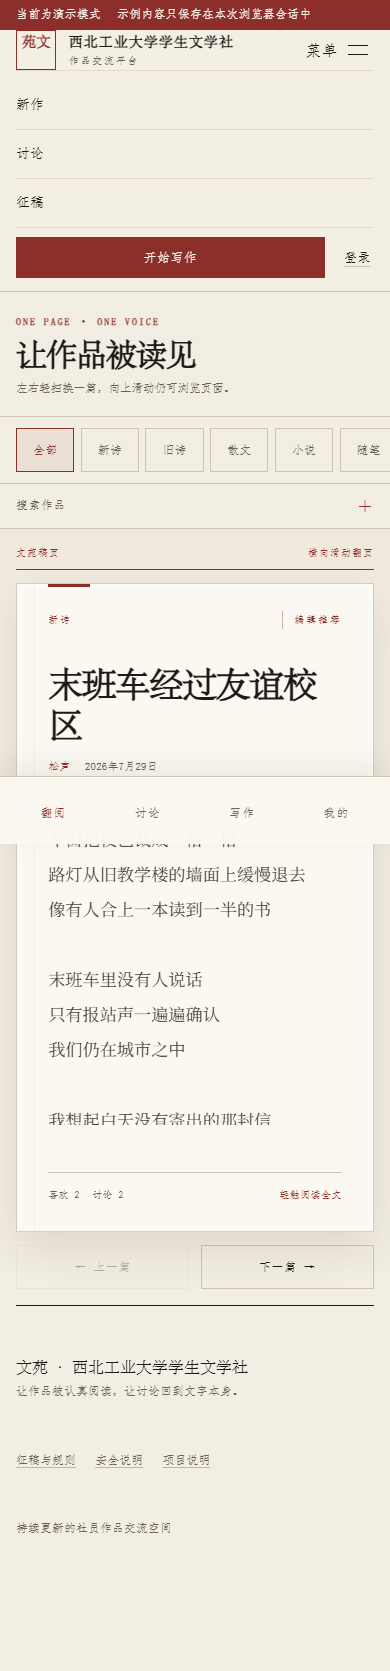
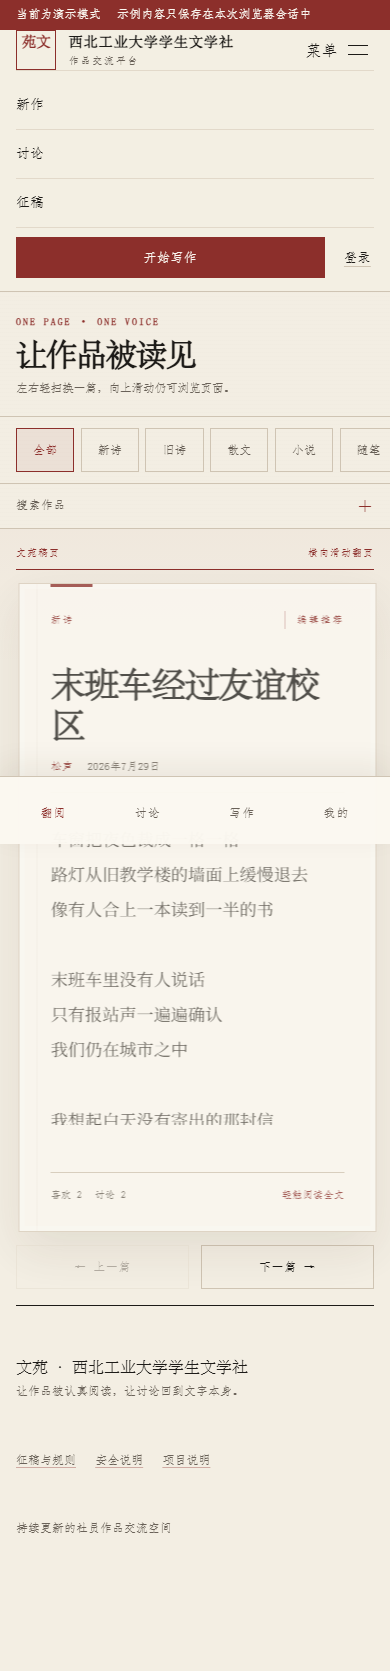
fix: resolve final interaction re-review

diff --git a/js/app.js b/js/app.js
@@ -39,6 +39,8 @@ const demoRibbon = document.querySelector("#demoRibbon");
 const toast = document.querySelector("#toast");
 
 const DRAFT_KEY = "wenyuan-writing-draft";
+const PROFILE_RETURN_SENTINEL = "__current-profile__";
+const SWIPE_CLICK_SUPPRESSION_MS = 2000;
 const mobileHomeMedia = window.matchMedia("(max-width: 760px)");
 
 const state = {
@@ -58,6 +60,7 @@ const state = {
     signature: "",
     touch: null,
     suppressClick: false,
+    suppressClickTimer: null,
   },
   confirmResolver: null,
   toastTimer: null,
@@ -164,7 +167,7 @@ function updateHeader() {
     accountMenu.hidden = true;
     mobileProfileLink.href = "#/";
     mobileProfileLink.dataset.action = "open-auth";
-    mobileProfileLink.dataset.returnHash = "#/";
+    mobileProfileLink.dataset.returnHash = PROFILE_RETURN_SENTINEL;
   }
 
   const route = parseRoute(window.location.hash);
@@ -616,6 +619,12 @@ function renderDesktopHome() {
   replaceContent(app, shell);
 }
 
+function resolveAuthReturnHash(returnTarget) {
+  if (returnTarget !== PROFILE_RETURN_SENTINEL) return returnTarget;
+  if (!state.session?.profile?.id) return null;
+  return `#/authors/${encodeURIComponent(state.session.profile.id)}`;
+}
+
 function getPreparedExport(trigger) {
   const prepared = state.currentExport;
   if (!prepared || prepared.workId !== trigger.dataset.workId) {
@@ -778,12 +787,29 @@ function moveMobileFeed(direction) {
   return true;
 }
 
+function clearMobileFeedClickSuppression() {
+  state.mobileFeed.suppressClick = false;
+  if (state.mobileFeed.suppressClickTimer != null) {
+    window.clearTimeout(state.mobileFeed.suppressClickTimer);
+    state.mobileFeed.suppressClickTimer = null;
+  }
+}
+
+function armMobileFeedClickSuppression() {
+  clearMobileFeedClickSuppression();
+  state.mobileFeed.suppressClick = true;
+  state.mobileFeed.suppressClickTimer = window.setTimeout(
+    clearMobileFeedClickSuppression,
+    SWIPE_CLICK_SUPPRESSION_MS,
+  );
+}
+
 function attachMobileFeedInteractions(card, work) {
   card.addEventListener("click", (event) => {
     if (state.mobileFeed.suppressClick) {
       event.preventDefault();
       event.stopPropagation();
-      state.mobileFeed.suppressClick = false;
+      clearMobileFeedClickSuppression();
       return;
     }
     if (
@@ -809,6 +835,7 @@ function attachMobileFeedInteractions(card, work) {
   card.addEventListener(
     "touchstart",
     (event) => {
+      clearMobileFeedClickSuppression();
       const touch = event.touches[0];
       if (!touch) return;
       state.mobileFeed.touch = {
@@ -843,7 +870,7 @@ function attachMobileFeedInteractions(card, work) {
       const deltaY = (touch?.clientY ?? gesture.endY) - gesture.startY;
       const direction = resolveHorizontalSwipe(deltaX, deltaY);
       if (!direction) return;
-      state.mobileFeed.suppressClick = true;
+      armMobileFeedClickSuppression();
       moveMobileFeed(direction);
     },
     { passive: true },
@@ -1842,7 +1869,7 @@ async function handleAuthSubmit(form, mode) {
       mode === "login" ? "已登录，欢迎回来。" : "账户已创建，可以开始写作。",
       "success",
     );
-    const returnHash = state.authReturnHash;
+    const returnHash = resolveAuthReturnHash(state.authReturnHash);
     state.authReturnHash = null;
     if (returnHash && window.location.hash !== returnHash) {
       window.location.hash = returnHash;

diff --git a/index.html b/index.html
@@ -80,7 +80,7 @@
         href="#/"
         data-nav="my"
         data-action="open-auth"
-        data-return-hash="#/"
+        data-return-hash="__current-profile__"
       >我的</a>
     </nav>
 
